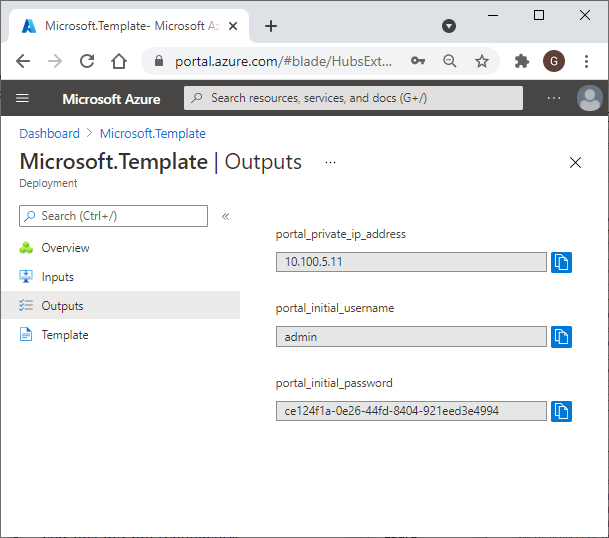
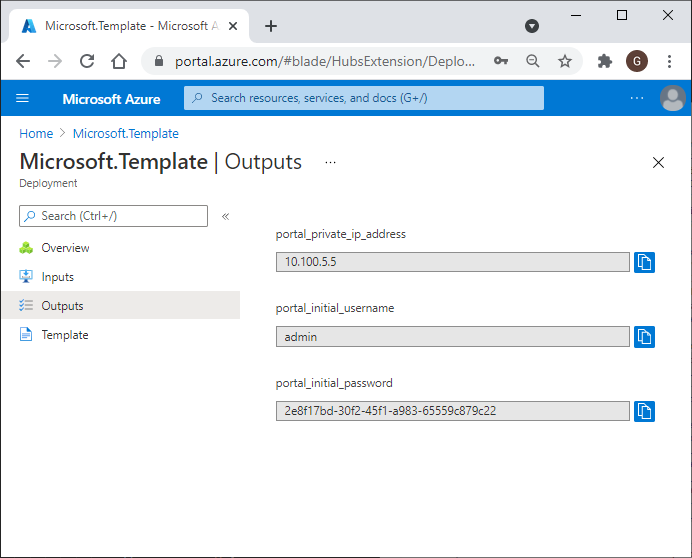
Update Portal demo Cookbook for Azure
Fix Portal default ip address: 10.100.5.5

diff --git a/Portal/Azure-Cloud-Cookbooks/101-portal-simple-demo/README.md b/Portal/Azure-Cloud-Cookbooks/101-portal-simple-demo/README.md
@@ -23,23 +23,23 @@ Please have a try and join the [Riverbed Community](https://community.riverbed.c
 
 ## Usage
 
-When the deployment is done, grab the the default admin credential from the deployment outputs. They will be required to log on the appliance webconsole
+When the deployment is done, grab the the default admin credential from the deployment outputs. They will be required to log on the Portal appliance webconsole.
 
 ![Outputs](images/outputs.png)
 
-A simple topology with an Portal VM appliance and a Windows VM will have been created.
+A simple topology with a Portal VM appliance and a Windows VM will have been created. The Windows VM is a *demo jumpbox* from which you can connect to the Portal webconsole.
 
 ![Topology](images/portal-demo-topology.svg)
 
 In the Azure Portal, navigate to the resource group. Then find the virtual machine named "Visibility" and connect via the Bastion using the Jumpbox username and password set in the deployment steps.
 
-| Connect from Azure Portal | Open Session | 
+| Connect from Azure Portal | Open Session |
 | --- | --- |
 | ![Bastion](images/visibility-connect-bastion.png) | ![Session](images/visibility-bastion-session.png) |
 
-On the Jumpbox you can launch the web browser, navigate to the Portal webconsole url https://10.100.5.11 and log in with the initial admin credential of the appliance (grabbed earlier from the deployment output).
+On the Jumpbox you can launch the web browser, navigate to the Portal webconsole url https://10.100.5.5 and log in with the initial admin credential of the appliance (grabbed earlier from the deployment output).
 
-![Portal Cloudy](images/visibility-potal-login.png)
+![Portal Cloudy](images/visibility-portal-login.png)
 
 ## Notes
 
